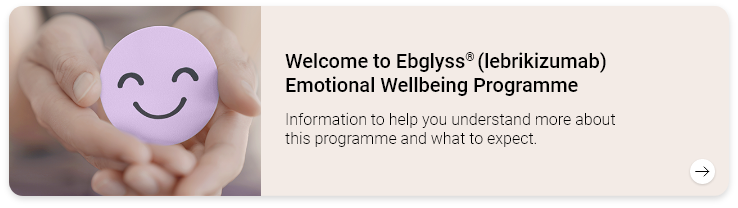
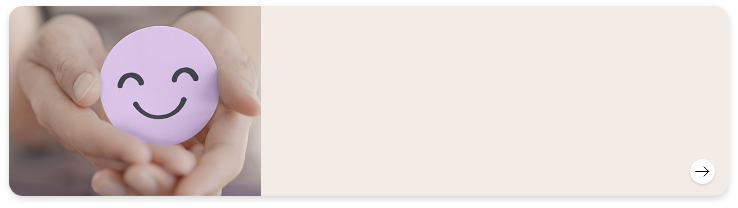
HTML hero section updated

diff --git a/index.html b/index.html
@@ -75,38 +75,73 @@
         </div>
         
         <!-- Logo and Program Container -->
-        <div class="flex flex-col items-center py-0 md:py-2 mb-4 md:mb-0 -mt-[-320px]">
-            <img src="header/bionical-health.png" alt="bionical-health-logo" class="w-[420px] h-[85px] object-contain mb-3 md:mb-4">
+        <div class="relative flex flex-col items-center py-0 md:py-2 mb-4 md:mb-0 -mt-[-320px]">
+            <img src="header/bionical-health.png" alt="bionical-health-logo" class="w-[420px] h-[85px] object-contain mb-3 md:mb-4 -mt-[-50px]">
             <img src="main/section/section_top/Welcome to.png" class="w-full max-w-[1400px] h-[250px] object-contain px-4 md:px-6 pt-4 md:pt-8 mt-0 lg:mt-7" alt="emotional-wellbeing-programme-container">
+            <h3 class="absolute text-black font-medium text-[20px] text-left leading-[19px]  max-w-[354px] max-h-[49px]" alt="top-nav-side-effects" style="margin: 270px 100px 290px 290px;">
+                Welcome to Ebglyss® (lebrikizumab) Emotional Wellbeing Programme 
+            </h3> 
+            <h3 class="absolute text-black font-light text-[16px] text-left leading-[19px]  max-w-[471px] max-h-[48px]" alt="top-nav-side-effects" style="margin: 320px 100px 220px 270px;">
+                Information to help you understand more about 
+                <br> this programme and what to expect.
+            </h3> 
         </div>
     </header>
     <main class="relative z-20 px-4 md:px-0">
         <section class="flex flex-col items-center justify-center min-h-0 pt-[20px] md:pt-[40px] px-4 md:px-16"> 
             <!-- welcome container -->
-            <div class="flex flex-col items-center text-center text-xl w-full max-w-[890px] md:max-w-[700px] h-auto object-contain px-15 md:px-4 pt-18" style="margin-top: -40px;">
-                <img src="main/section/section_top/Please read through the articles below which can help you to live well with atopic dermatitis..png" alt="Read articles text" class="mb-2 w-full max-w-[990px] md:max-w-[1800px]">
-                <h2 class="absolute text-black font-medium text-[20px] text-center text-capitalize leading-[24px] pb-[20px]" alt="top-nav-side-effects" style="margin-top: 7px;">
+            <div class="flex flex-col items-center text-center text-xl w-full max-w-[890px] md:max-w-[700px] h-auto object-contain px-15 md:px-4 pt-18" style="margin-top:-40px;">
+                <!-- <img src="main/section/section_top/Please read through the articles below which can help you to live well with atopic dermatitis..png" alt="Read articles text" class="mb-2 w-full max-w-[990px] md:max-w-[1800px]"> -->
+                <h2 class="absolute text-black font-medium text-[20px] text-center text-capitalize leading-[24px] pb-[20px]" alt="top-nav-side-effects" style="margin-top:7px;">
                     Please read through the articles below which can help you to live well with atopic dermatitis.
                 </h2> 
-                <h2 class="absolute text-black font-light text-[16px] text-center text-capitalize leading-[24px] pb-[20px]" alt="top-nav-side-effects" style="margin-top: 37px;">
+                <!-- <img src="main/section/section_top/The contents of this website are not intended to be medical advice. Please see your healthcare professional with a.png" alt="Medical disclaimer" class="mb-[30px] md:mb-[50px] w-full max-w-[990px] md:max-w-[800px]"> -->
+                  <h2 class="absolute text-black font-light text-[16px] text-center text-capitalize leading-[24px] pb-[20px]" alt="top-nav-side-effects" style="margin-top:37px;">
                     The contents of this website are not intended to be medical advice. Please see your healthcare professional.
                     <br>professional with any specific questions about your condition and / or treatment.
                 </h2> 
-                <img src="main/section/section_top/The contents of this website are not intended to be medical advice. Please see your healthcare professional with a.png" alt="Medical disclaimer" class="mb-[30px] md:mb-[50px] w-full max-w-[990px] md:max-w-[800px]">
-                
-                <img src="main/section/section_top/Understanding your condition and treatment.png" alt="Understanding condition" class="mb-6 w-full max-w-[990px] md:max-w-[800px]"> 
+
+
+                <!-- <img src="main/section/section_top/Understanding your condition and treatment.png" alt="Understanding condition" class="mb-6 w-full max-w-[990px] md:max-w-[800px]"> -->
+                <h2 class="absolute text-black font-light text-[32px] text-center text-capitalize leading-[24px] pb-[20px]" alt="top-nav-side-effects" style="margin-top: 120px;">
+                    Understanding your condition and treatment.
+                </h2>  
             </div>
             
             <!-- article cards -->
-            <div class="flex flex-col md:flex-row gap-12 md:gap-16 items-center justify-center mb-[0] md:mb-[0] w-full max-w-6xl">
+            <div class="flex flex-col md:flex-row gap-12 md:gap-16 items-center justify-center mb-[0] md:mb-[0] w-full max-w-6xl mt-[200px]">
                 <img src="main/section/section_top/Group 43.png" alt="Article 1" class="w-full max-w-[280px] md:max-w-none">
+                <h3 class="absolute text-black font-light text-[32px] text-center text-capitalize leading-[24px] pb-[20px]" alt="top-nav-side-effects" style="margin-top: 120px;">
+                    
+                </h3>  
                 <img src="main/section/section_top/Group 44.png" alt="Article 2" class="w-full max-w-[280px] md:max-w-none">
                 <img src="main/section/section_top/Group 45.png" alt="Article 3" class="w-full max-w-[280px] md:max-w-none">
             </div>
+
+
+
+
              <!-- horizontal article card -->
             <div class="flex justify-center mb-[-50px] md:mb-[160px]" >
                 <img src="main/section/section_top/Why your emotional.png" alt="Article 3" class="w-full max-w-[1400px] h-[230px] object-contain px-0 md:px-1 pt-4">
             </div>
+
+            <div class="relative flex flex-col items-center py-0 md:py-2 mb-4 md:mb-0 -mt-[440px]">
+                <img src="main/section/section_top/Why your emotional.png" class="w-full max-w-[1400px] h-[250px] object-contain px-4 md:px-6 pt-4 md:pt-8 mt-0 lg:mt-7" alt="emotional-wellbeing-programme-container">
+                <h3 class="absolute text-black font-medium text-[20px] text-left leading-[19px]  max-w-[354px] max-h-[49px]" alt="top-nav-side-effects" style="margin: 120px 100px 290px 290px;">
+                    Why your emotional wellbeing is important
+                </h3> 
+                <h3 class="absolute text-black font-light text-[16px] text-left leading-[19px]  max-w-[471px] max-h-[48px] " alt="top-nav-side-effects" style="margin: 170px 100px 220px 330px;">
+                    Stress is associated with inflammation that can trigger 
+                    <br> psoriasis. This article explains more about stress and the importance of emotional wellbeing.
+                </h3> 
+            </div>
+
+
+
+
+
+
             <!-- bottom text -->
             <div class="flex flex-col items-center text-center">
             </div>
